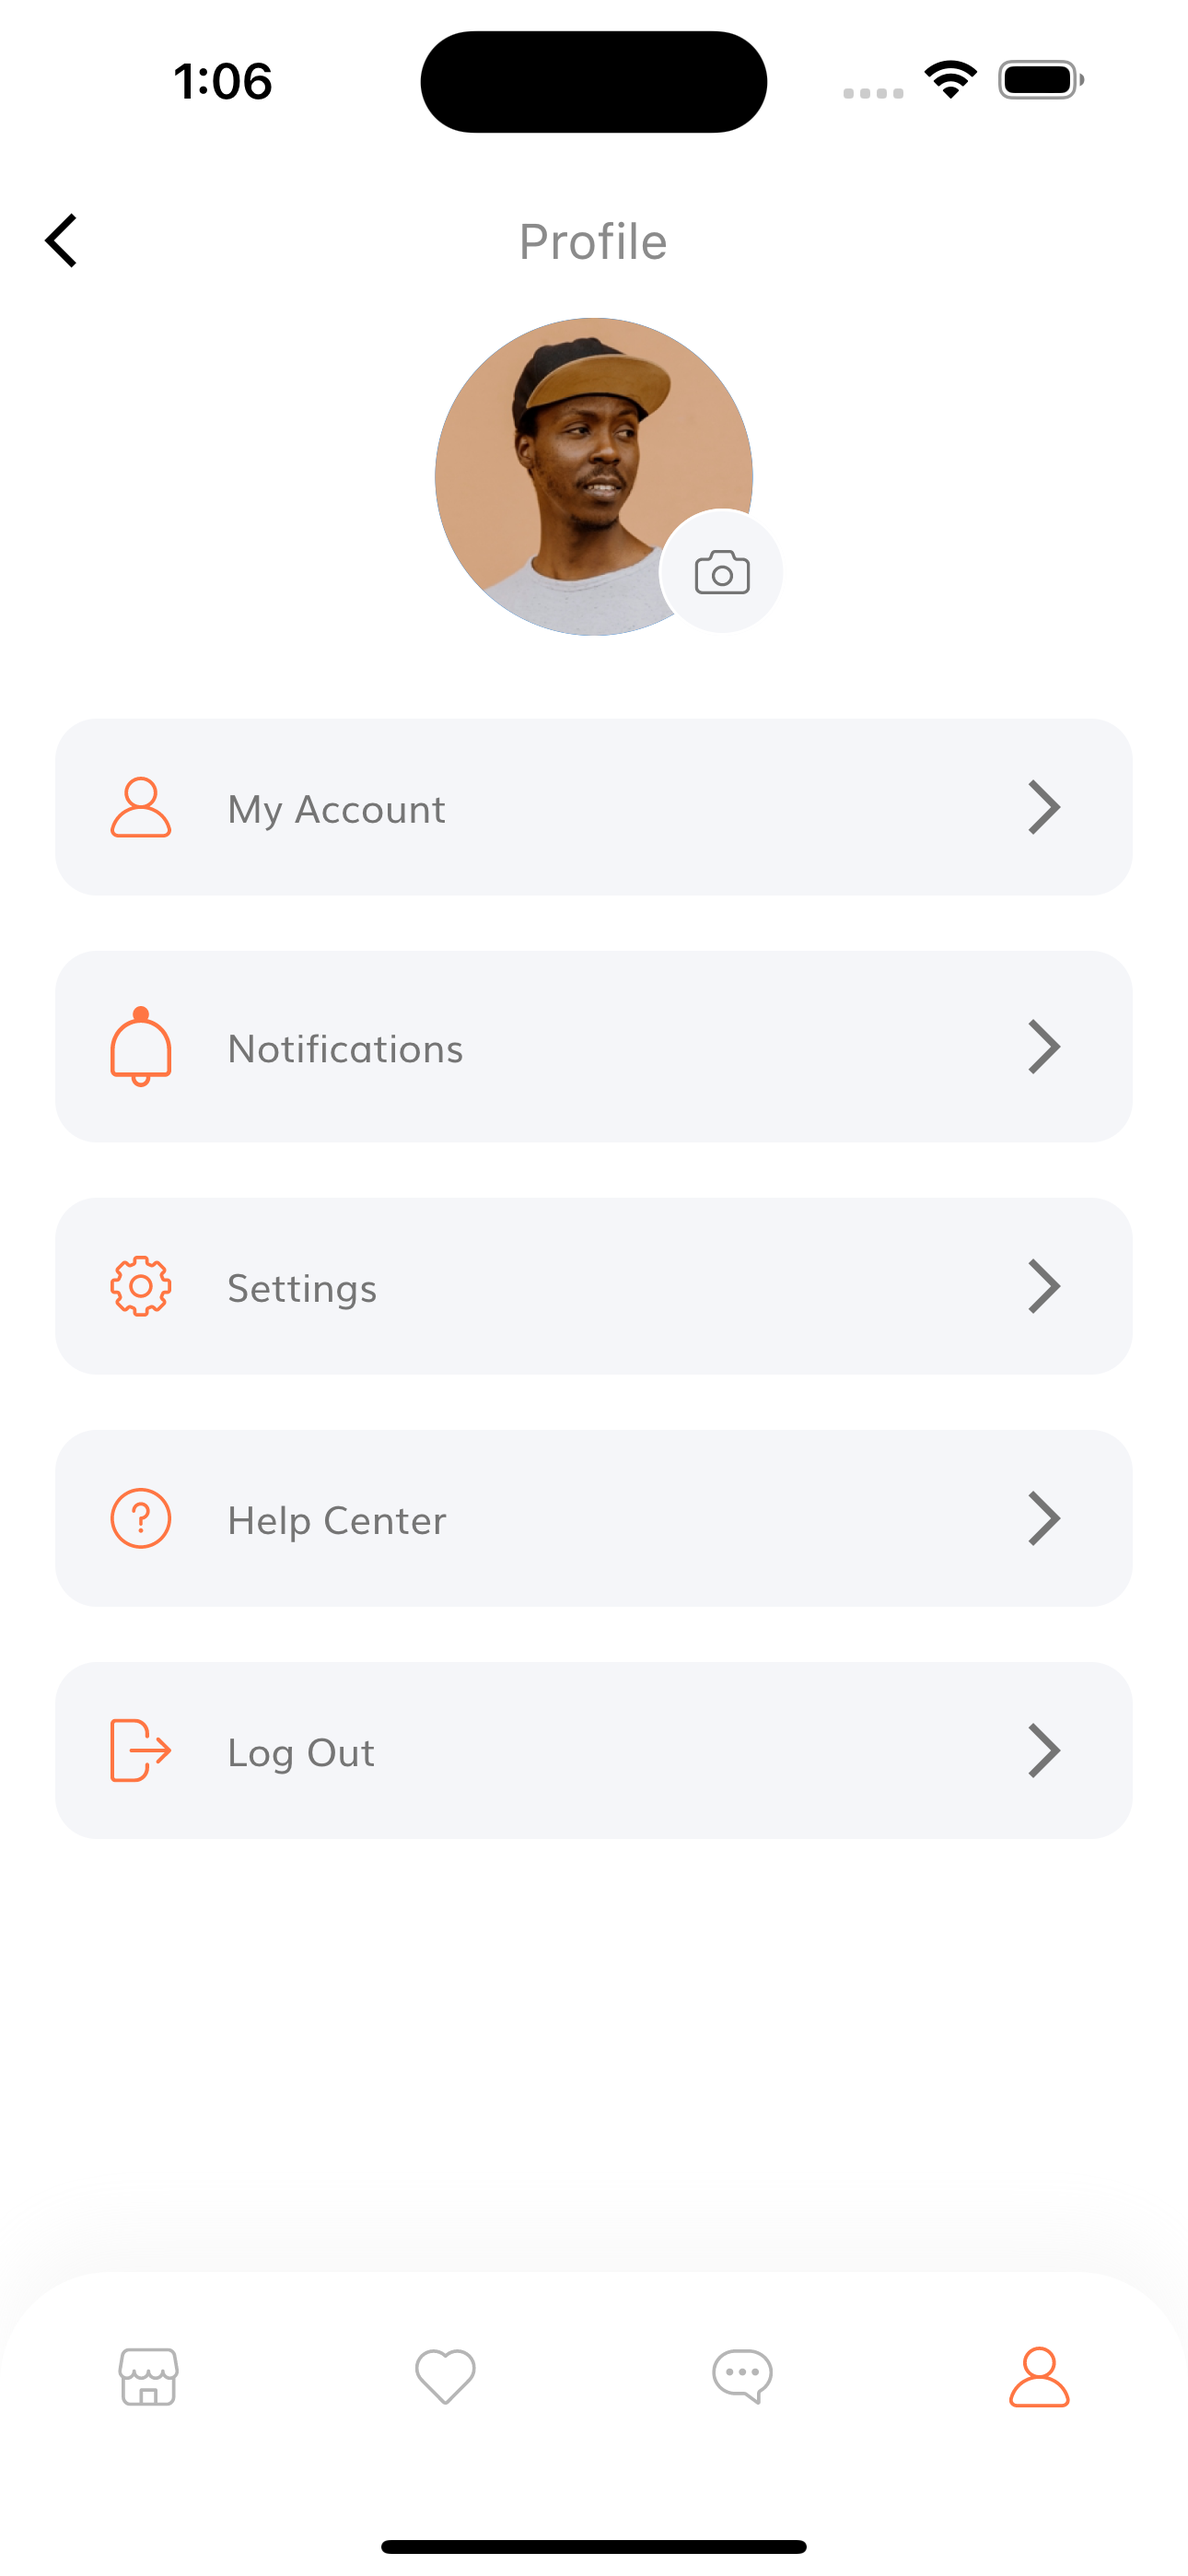
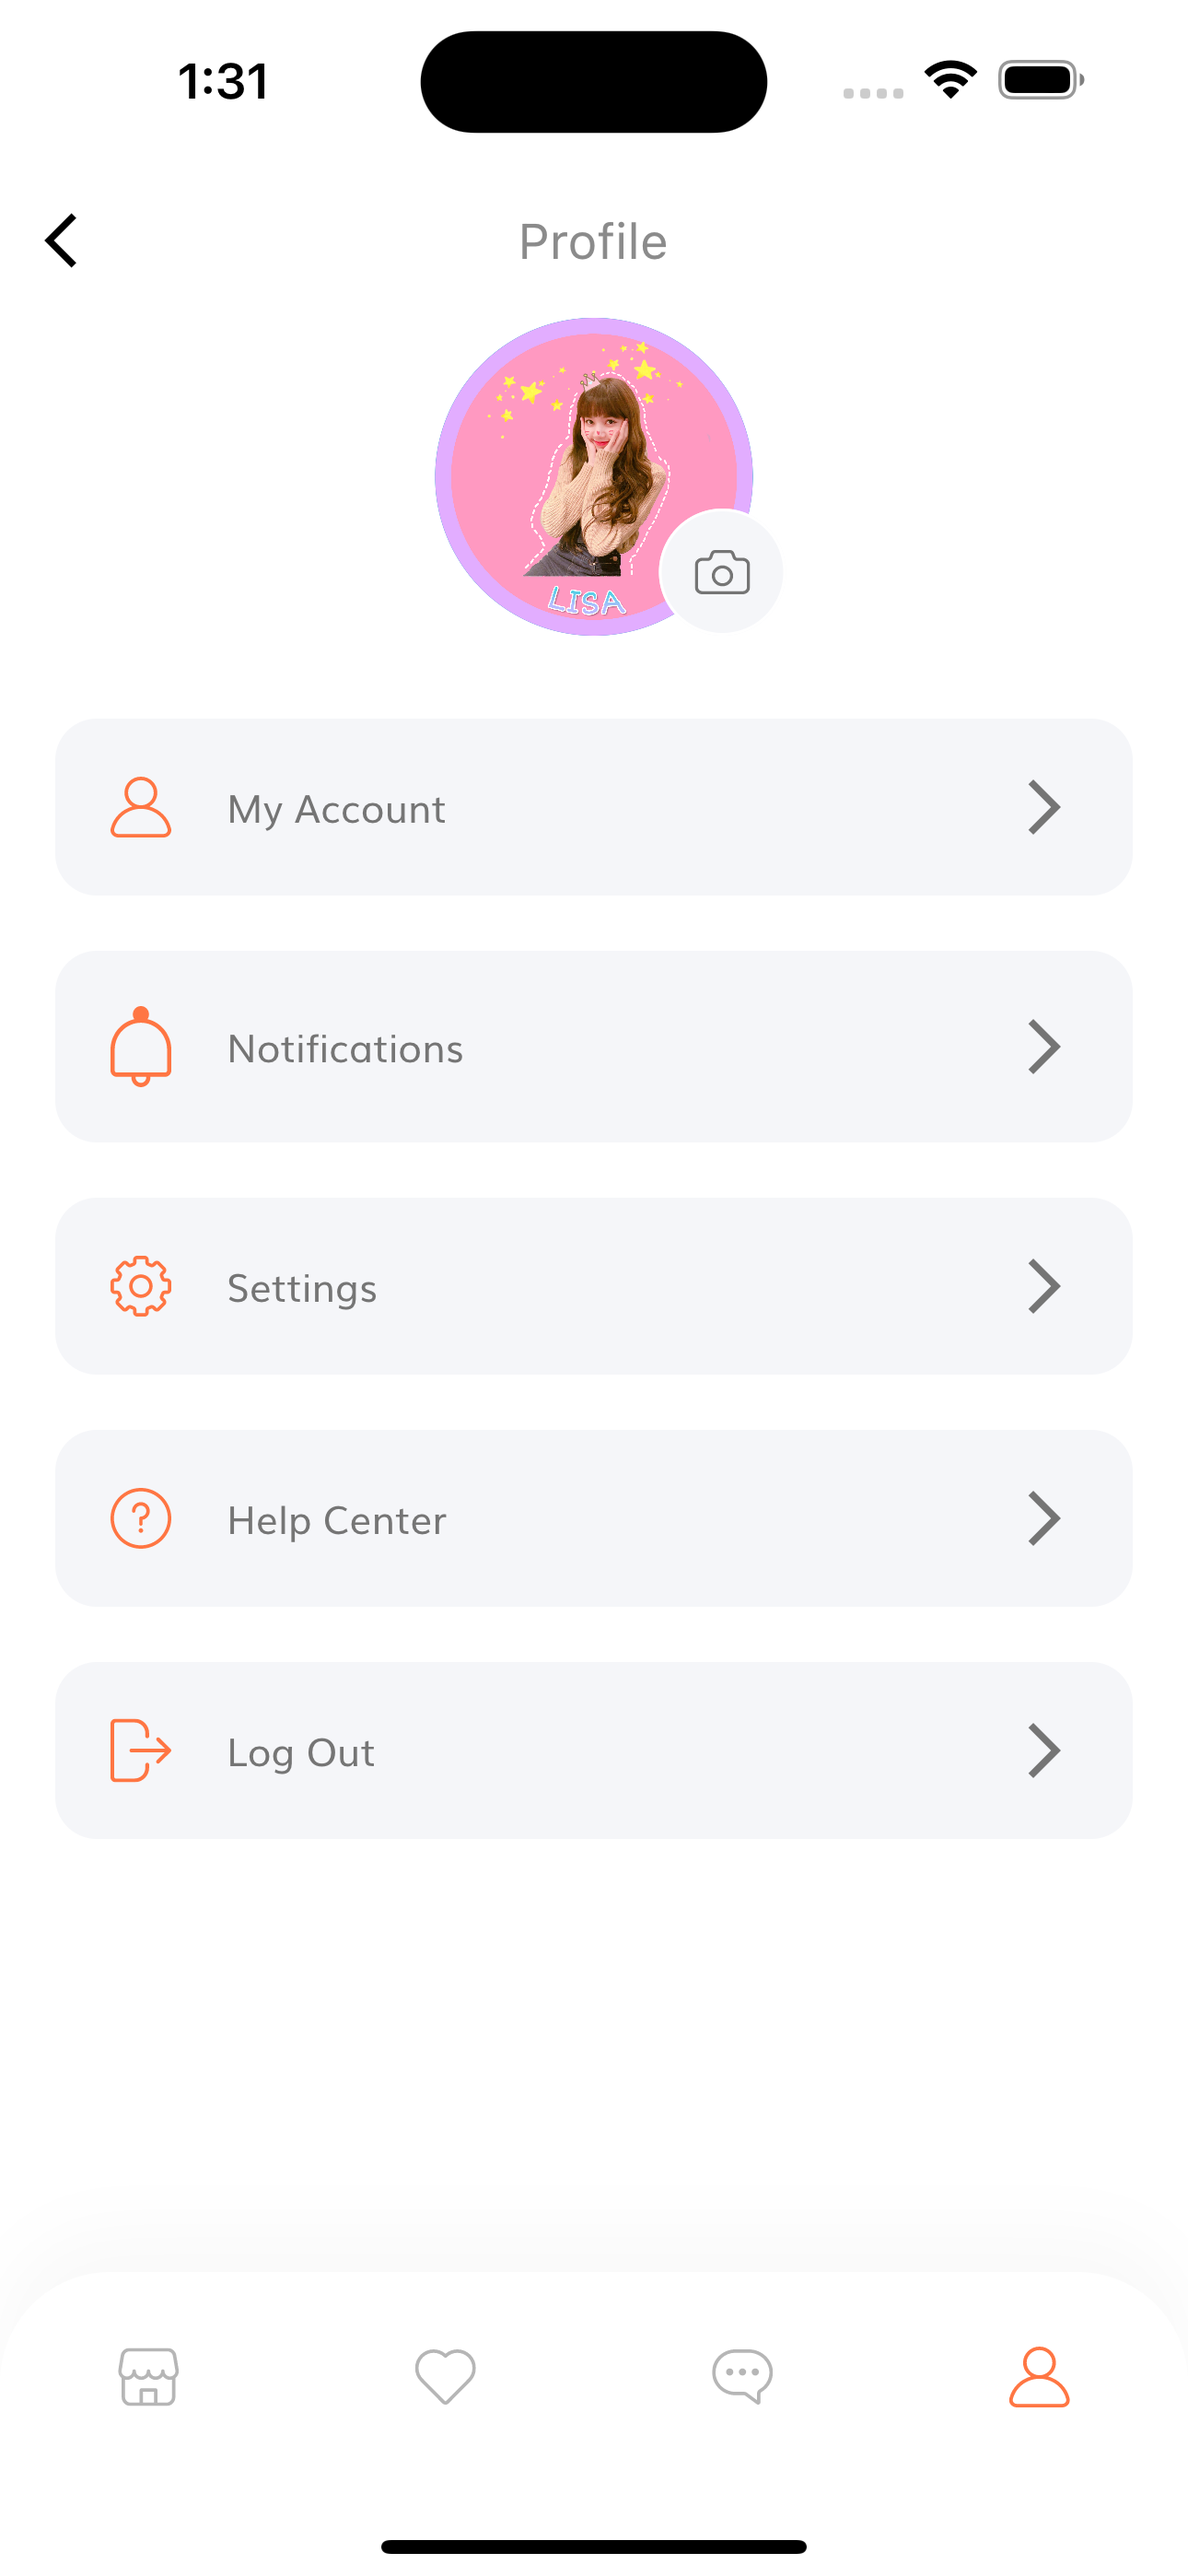
Refactor :roller_coaster:

Changed region(s): [[0.3721, 0.1245, 0.6512, 0.2489], [0.155, 0.0, 0.2171, 0.0622]]

diff --git a/lib/screens/profile/components/profile_pic.dart b/lib/screens/profile/components/profile_pic.dart
@@ -16,7 +16,7 @@ class ProfilePic extends StatelessWidget {
         clipBehavior: Clip.none,
         children: [
           CircleAvatar(
-            backgroundImage: AssetImage("assets/images/Profile Image.png"),
+            backgroundImage: AssetImage("assets/images/lisa.png"),
           ),
           Positioned(
             right: -12,
